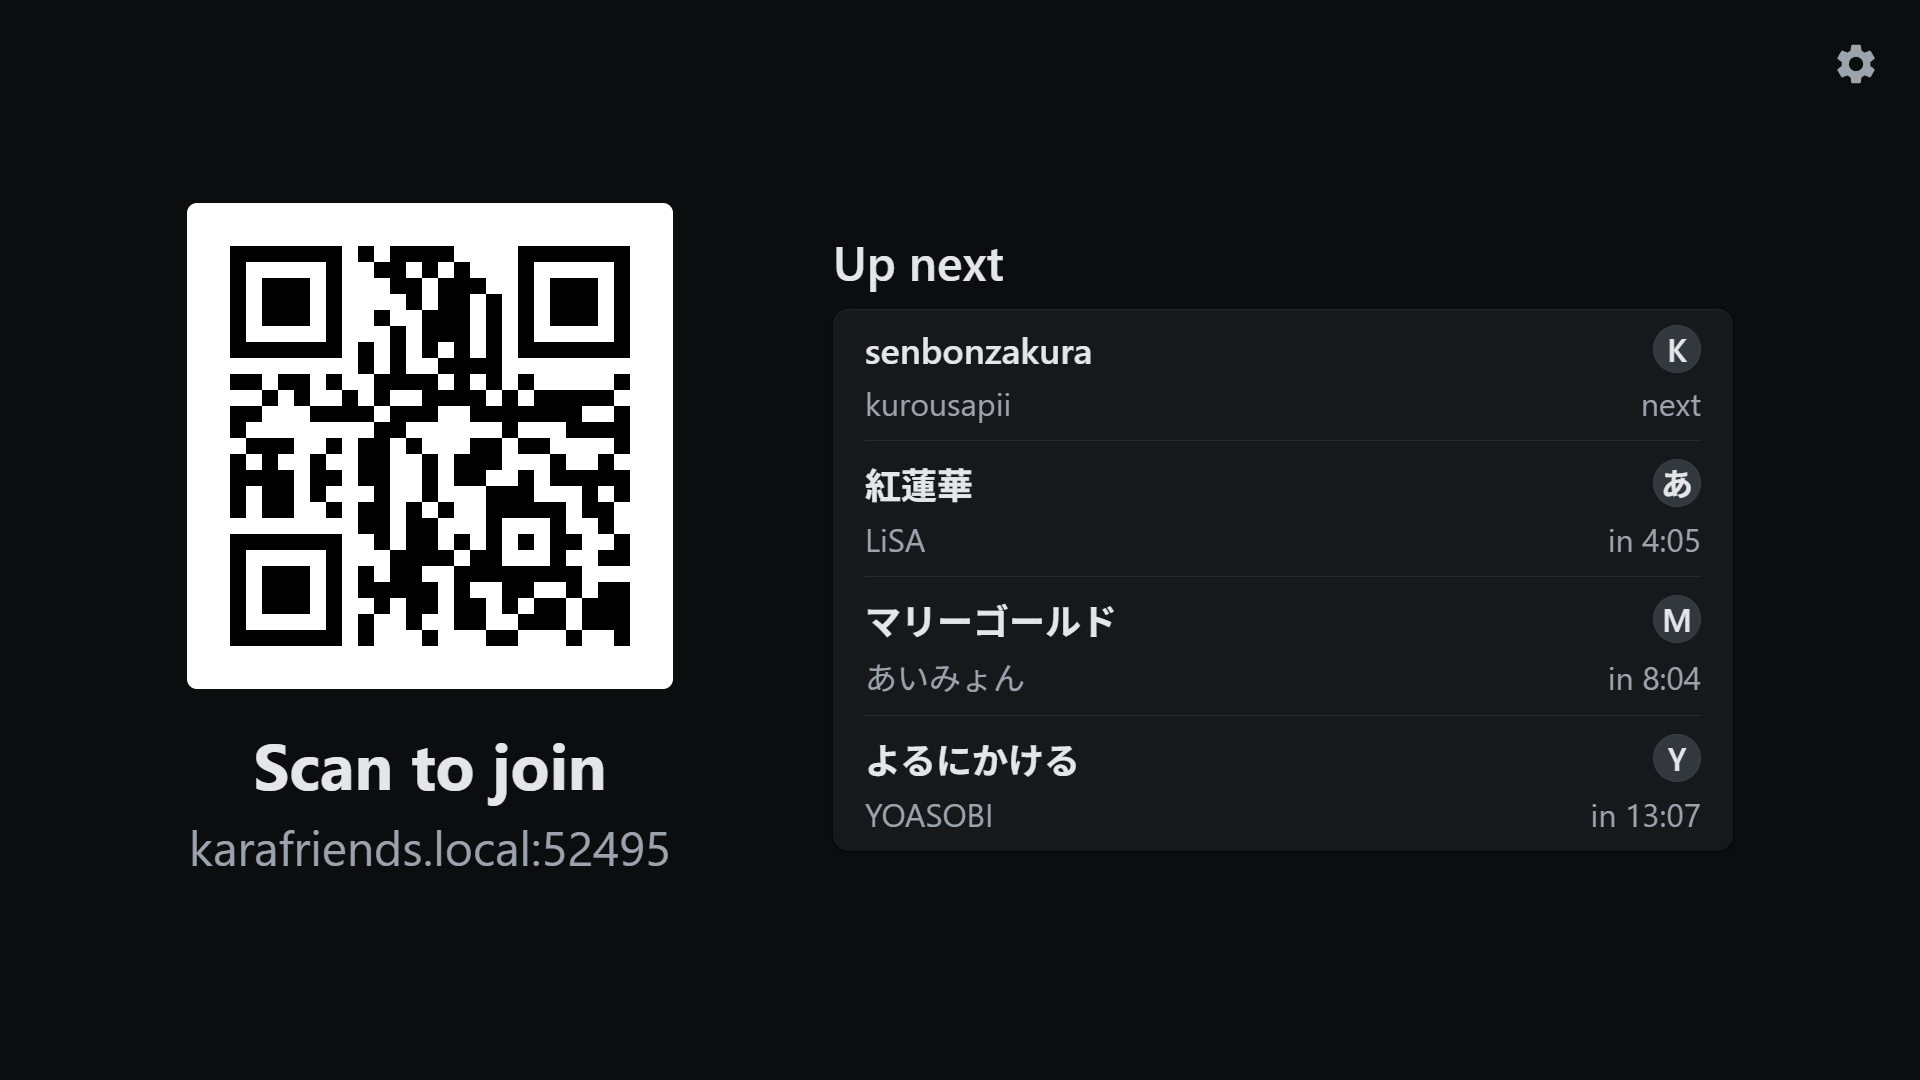
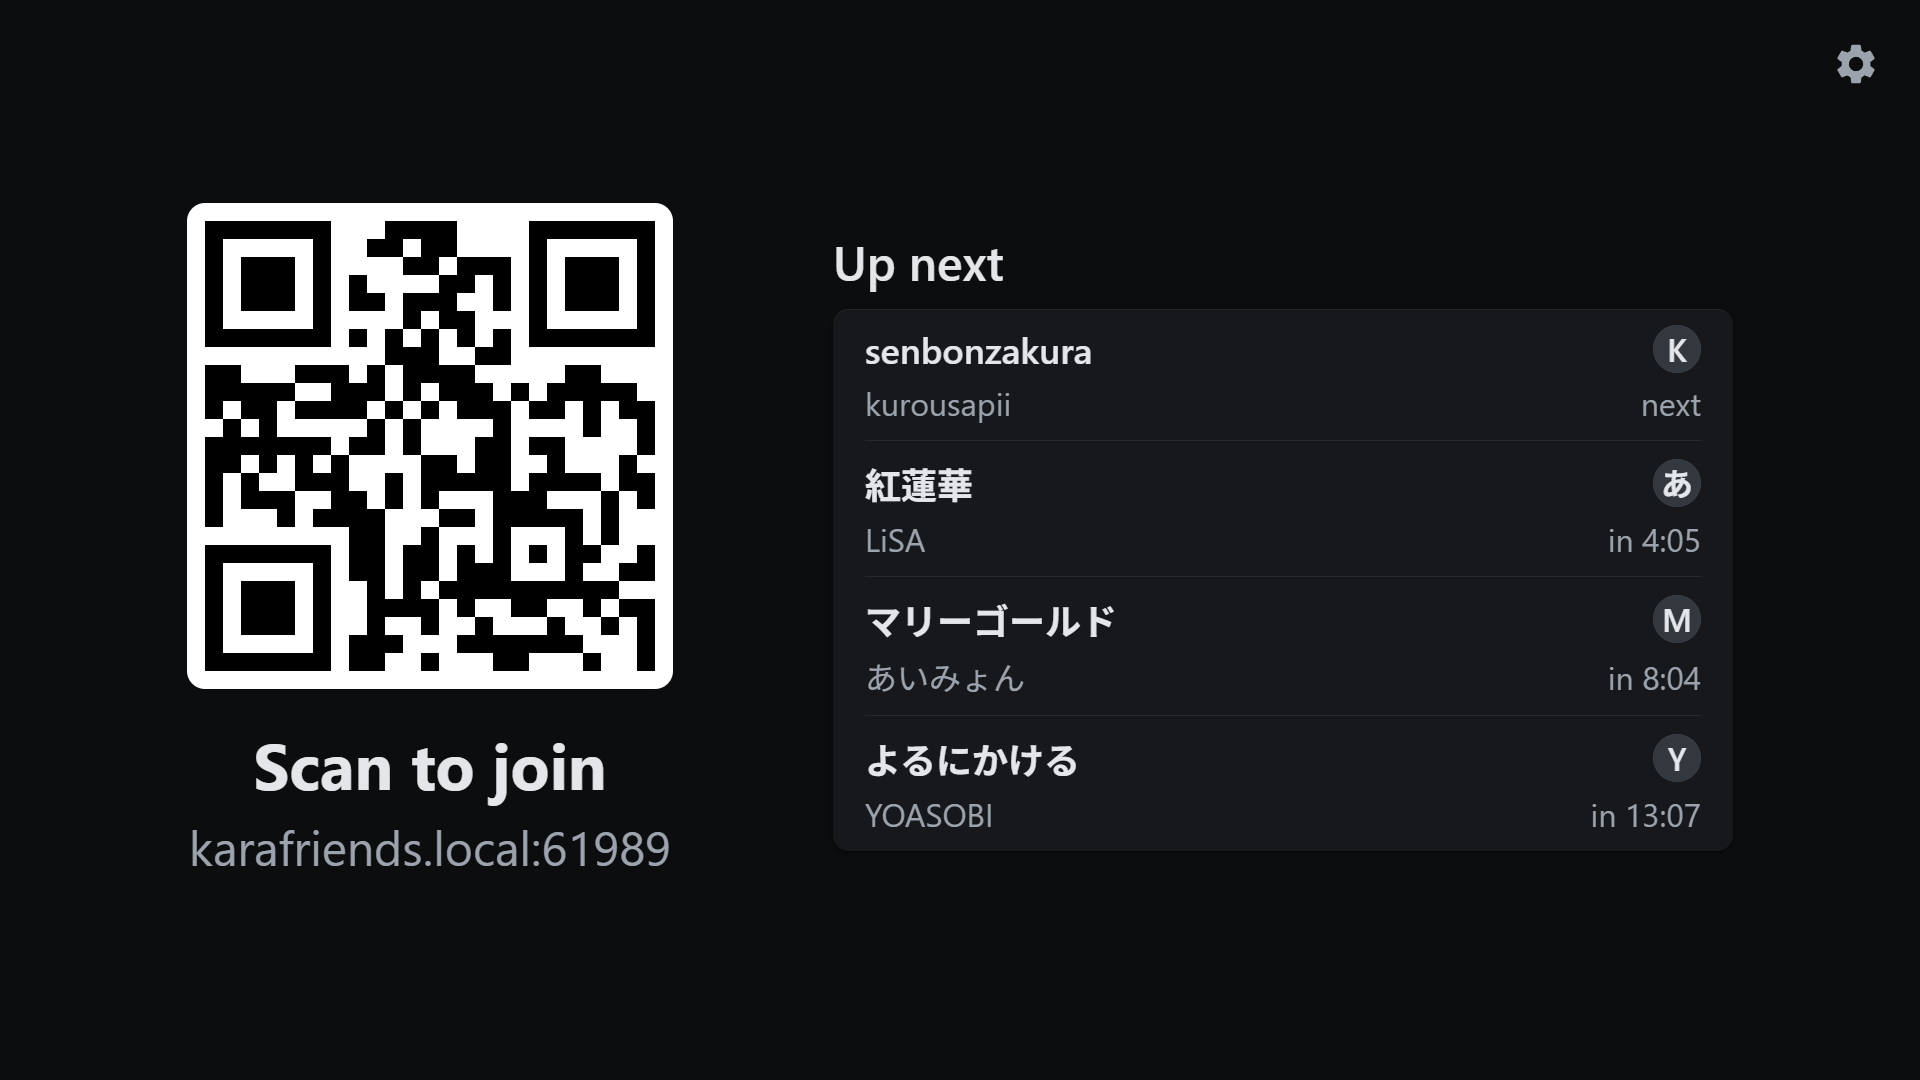
TV: pitch bars full width again under the QR tile; the tile hugs the code
The user wants the bars at full width with the QR over them. The canvas
is now the white tile, so no leftover white widens the border, which
stays 2 modules: with 1, the code over the bars stopped reading below
75 % of its size.

Claude-Session: https://claude.ai/code/session_01QVeND4kYoaNT3AJXVU9A6p

Changed region(s): [[0.0938, 0.1833, 0.3438, 0.6417], [0.2812, 0.7639, 0.3438, 0.825]]

diff --git a/src/renderer/QRCode.tsx b/src/renderer/QRCode.tsx
@@ -3,26 +3,30 @@ import React, { useEffect, useRef } from "react";
 
 import "./QRCode.css";
 
-// The white border round the code, in modules: the 2 phone cameras need,
-// rather than the standard's 4, so the modules are bigger in the same
-// space.
+// The white border round the code, in modules. Cameras need light round
+// the corner squares to find the code: with none it doesn't scan. The
+// standard asks for 4; 2 is the least that held up over the pitch bars
+// (OpenCV read the corner code at 1440p down to 40 % of its size with 2,
+// but only to 75 % with 1).
 const QUIET_ZONE = 2;
 
-// Draws the code with each module a whole number of the screen's pixels,
-// as big as fits the tile, so its squares stay sharp at any size. The tile
-// is white too, so what doesn't divide evenly widens the border.
+// Draws the code, with its border, as near the box's width as whole
+// screen pixels per module allow, so its squares stay sharp at any size.
+// The canvas is the white tile: it ends where the border does, its corners
+// rounded by one module, which only takes from the border.
 function draw(canvas: HTMLCanvasElement, text: string) {
-  const tile = canvas.parentElement;
-  if (!tile) return;
+  const box = canvas.parentElement;
+  if (!box) return;
   const { modules } = create(text, { errorCorrectionLevel: "L" });
   const count = modules.size + QUIET_ZONE * 2;
   const ratio = window.devicePixelRatio || 1;
-  const scale = Math.max(1, Math.floor((tile.clientWidth * ratio) / count));
+  const scale = Math.max(1, Math.round((box.clientWidth * ratio) / count));
   const pixels = count * scale;
   canvas.width = pixels;
   canvas.height = pixels;
   canvas.style.width = `${pixels / ratio}px`;
   canvas.style.height = `${pixels / ratio}px`;
+  canvas.style.borderRadius = `${scale / ratio}px`;
 
   const context = canvas.getContext("2d");
   if (!context) return;
@@ -49,7 +53,7 @@ function draw(canvas: HTMLCanvasElement, text: string) {
 function QRCode(props: { hostname: string; corner?: boolean }) {
   const canvasRef = useRef<HTMLCanvasElement>(null);
 
-  // Again when the tile changes size (the window, the UI scale).
+  // Again when the box changes size (the window, the UI scale).
   useEffect(() => {
     const canvas = canvasRef.current;
     const tile = canvas?.parentElement;

diff --git a/src/renderer/QRCode.css b/src/renderer/QRCode.css
@@ -6,23 +6,21 @@
   text-align: center;
 }
 
-/* A white tile, 45% of the screen's height on the idle screen. The code
-   is drawn in whole pixels per module (QRCode.tsx), so it may be a few
-   pixels smaller than the tile: centered, the rest is more white border. */
+/* The code's size: 45% of the screen's height on the idle screen. The
+   code itself, white tile and all, is drawn as near this as whole pixels
+   per module allow (QRCode.tsx), centered on it. */
 .joinCode {
   display: flex;
   align-items: center;
   justify-content: center;
   width: 45vh;
   aspect-ratio: 1;
-  border-radius: var(--kf-radius-control);
-  background-color: #fff;
-  overflow: hidden;
   line-height: 0;
 }
 
 .qrcode {
   display: block;
+  flex: none;
 }
 
 .joinScan {
@@ -37,10 +35,11 @@
   font-size: var(--kf-text-heading);
 }
 
-/* While a song plays: the tile alone, top-left over the video with a
-   shadow, clear of the lyrics, which karaoke puts at the bottom (DAM's in
-   the video, Joysound's and ad-hoc ones drawn over it). The pitch bars
-   start right of it (PianoRoll.css). Announcements take the top-right. */
+/* While a song plays: the code alone, about 7.25rem (29 modules of 4px at
+   1080p, with its 2-module white border), top-left over the video with a shadow, clear of the lyrics,
+   which karaoke puts at the bottom (DAM's in the video, Joysound's and
+   ad-hoc ones drawn over it). It sits over the left end of the pitch bars.
+   Announcements take the top-right. */
 .joinCorner {
   position: absolute;
   top: var(--kf-space-6);
@@ -50,6 +49,11 @@
 }
 
 .joinCorner .joinCode {
-  width: var(--kf-join-corner);
+  justify-content: flex-start;
+  align-items: flex-start;
+  width: 7.25rem;
+}
+
+.joinCorner .qrcode {
   box-shadow: var(--kf-shadow-float);
 }

diff --git a/tests/e2e/display.spec.ts b/tests/e2e/display.spec.ts
@@ -192,14 +192,11 @@ test.describe("while a song plays", () => {
     ]);
     expect(box.x + box.width).toBeLessThan(width / 2);
     expect(box.y + box.height).toBeLessThan(strip.y / 2);
-    // The white tile is 7.25rem square; the code in it is drawn in whole
-    // pixels per module, so it fits inside, and the rest is white border.
-    const tile = (await qrCode.locator("..").boundingBox())!;
-    expect(tile.width).toBeCloseTo(7.25 * rem, 0);
-    expect(tile.height).toBeCloseTo(tile.width, 0);
-    expect(box.width).toBeLessThanOrEqual(tile.width + 0.5);
+    // About 7.25rem square: the code and a 2-module white border, 29
+    // modules across, each a whole number of pixels, so within half a
+    // module per module of it.
+    expect(Math.abs(box.width - 7.25 * rem)).toBeLessThanOrEqual(29 / 2);
     expect(box.height).toBeCloseTo(box.width, 0);
-    // The code and a 2-module border, 29 modules across.
     const canvasWidth = await qrCode.evaluate(
       (canvas: HTMLCanvasElement) => canvas.width,
     );

diff --git a/tests/e2e/settings.spec.ts b/tests/e2e/settings.spec.ts
@@ -476,15 +476,6 @@ test.describe("the pitch bars", () => {
 
     const roll = display.locator("canvas.pianoRollRoll");
     await expect(roll).toHaveCount(1, { timeout: 20_000 });
-    // The bars start right of the QR tile in the corner, and run to the
-    // screen's right edge.
-    const [rollBox, rem, screenWidth] = await roll.evaluate((el) => [
-      el.getBoundingClientRect().toJSON(),
-      parseFloat(getComputedStyle(document.documentElement).fontSize),
-      window.innerWidth,
-    ]);
-    expect(rollBox.left).toBeCloseTo((2 + 7.25 + 1) * rem, 0);
-    expect(rollBox.right).toBeCloseTo(screenWidth, 0);
     await expect
       .poll(() =>
         display

diff --git a/src/renderer/PianoRoll.css b/src/renderer/PianoRoll.css
@@ -1,14 +1,9 @@
-/* From just right of the QR tile in the corner (QRCode.css) to the
-   screen's right edge, so the tile never hides the bars. (A canvas doesn't
-   stretch between left and right, so the width is given.) */
+/* The full width; the QR tile in the corner sits over its left end. */
 .pianoRollRoll {
-  --clear-of-qr: calc(
-    var(--kf-space-6) + var(--kf-join-corner) + var(--kf-space-4)
-  );
   position: absolute;
-  left: var(--clear-of-qr);
+  left: 0;
   top: 5%;
-  width: calc(100% - var(--clear-of-qr));
+  width: 100%;
   height: 30%;
   background: repeating-linear-gradient(
     rgba(50%, 75%, 100%, 0.7),

diff --git a/src/renderer/tokens.css b/src/renderer/tokens.css
@@ -106,11 +106,6 @@
   --kf-radius-control: 0.625rem;
   --kf-radius-card: 1rem;
 
-  /* The QR tile in the corner while a song plays: 29 modules (the code and
-     a 2-module border), each 4 pixels at 1080p. The pitch bars start
-     right of it. */
-  --kf-join-corner: 7.25rem;
-
   /* UI text uses the system stack; lyrics keep the bundled Noto fonts. */
   --kf-font:
     system-ui, -apple-system, "Segoe UI", Roboto, "Hiragino Sans",

diff --git a/CHANGELOG.md b/CHANGELOG.md
@@ -53,7 +53,7 @@ The product round: the phone remote, the display, settings and party-time failur
 - Darker colors ("Graphite") with real depth on the phone and the TV: lists and settings are rounded cards with soft shadows, the queue sheet is a lighter layer with a long shadow, fields and slider tracks are sunken, and buttons and picked choices are raised; the phone's light theme matches. The TV's sliders in Settings are a clear track filled with the accent up to the value, with a solid thumb, instead of Windows' blue dot in a ring; the phone keeps the phone's own slider (iOS's on an iPhone), tinted with the accent.
 - The open queue sheet reads as three blocks: the song playing, the queue in a well under "Up next", and a toolbar of its own. The toolbar is grouped: a switch between controls and emotes, a big play button between restart and skip, and the key as one stepper that shows its sign (+2, −1). In supervised mode, a phone that can't control the song says so in one line.
 - Joysound songs get pitch bars too: the display reads the melody from the song's guide melody (the third channel of its sound) as it starts, and draws the same bars as for DAM songs, with each mic's pitch over them. On three real songs the notes match DAM's own melody data over 93–98 % of the sung time. The Settings switch is now "Pitch bars" and covers both.
-- While a song plays, the QR code in the corner is the code alone on a small white tile (about 80 % less room than the card with the address), and the pitch bars start right of it instead of under it. Both QR codes are drawn in whole pixels per square with a slimmer white border, so they stay sharp at any screen size; the corner one still scans at half its size. The idle screen keeps "Scan to join" and the address.
+- While a song plays, the QR code in the corner is the code alone on a small white tile that ends at the code's border (about 80 % less room than the card with the address), over the left end of the pitch bars. Both QR codes are drawn in whole pixels per square with a 2-square white border (the standard asks for 4), so they stay sharp at any screen size; the corner one still reads at 40 % of its size over the bars at 1440p. The idle screen keeps "Scan to join" and the address.
 
 ## 0.1.0
 

diff --git a/notes/PLAN-ui-round.md b/notes/PLAN-ui-round.md
@@ -55,4 +55,4 @@ Merge each branch as it is reviewed. Then: place U1's progress line in U3's shee
 - **The sheet's bottom bar** (added to C1): "a bunch of randomly placed icons with no real grouping". Three zones on one row: a two-way Controls/Emotes switch on the left; restart, a big raised play/pause and skip as one transport group in the middle; the key as one sunken stepper pill (♭, a signed value, ♯, a small "Key" label) on the right.
 - **Distinct sections in the open sheet** (added to C1): the Now playing bar as the header on the sheet color; Up next in an inset, sunken, rounded well with its caps heading above; the controls as a footer with its own top edge.
 - **The phone's sliders are native again** (the user's call): the "glass" was iOS's own slider effect. The phone uses the browser's range input with `accent-color`; S1's drawn track, `--kf-fill` checks on the phone and the `--kf-track`/`--kf-shadow-track`/`--kf-drop-raise` phone tokens are gone. The TV keeps S1's slider.
-- **A compact QR code** (the user: no address in the corner card, take less room, stay readable): the corner is the code alone on a white tile `--kf-join-corner` (7.25rem: 29 modules of 4px at 1080p, a 2-module border); both codes drawn in whole device pixels per module; the pitch bars start right of the tile (this settles J1's open point). Checked: OpenCV decodes the corner code even at half size. The idle screen keeps "Scan to join" and the address.
+- **A compact QR code** (the user: no address in the corner card, take less room, stay readable): the corner is the code alone; the canvas is the white tile, as near 7.25rem as whole device pixels per module allow, so no leftover white round the code. Then the user asked for the pitch bars at full width with the tile over them (it was briefly offset) and a thinner border: 2 modules, since OpenCV read the corner code at 1440p over the bars down to 40 % of its size with 2 but only to 75 % with 1 (none never reads). The idle screen keeps "Scan to join" and the address.
